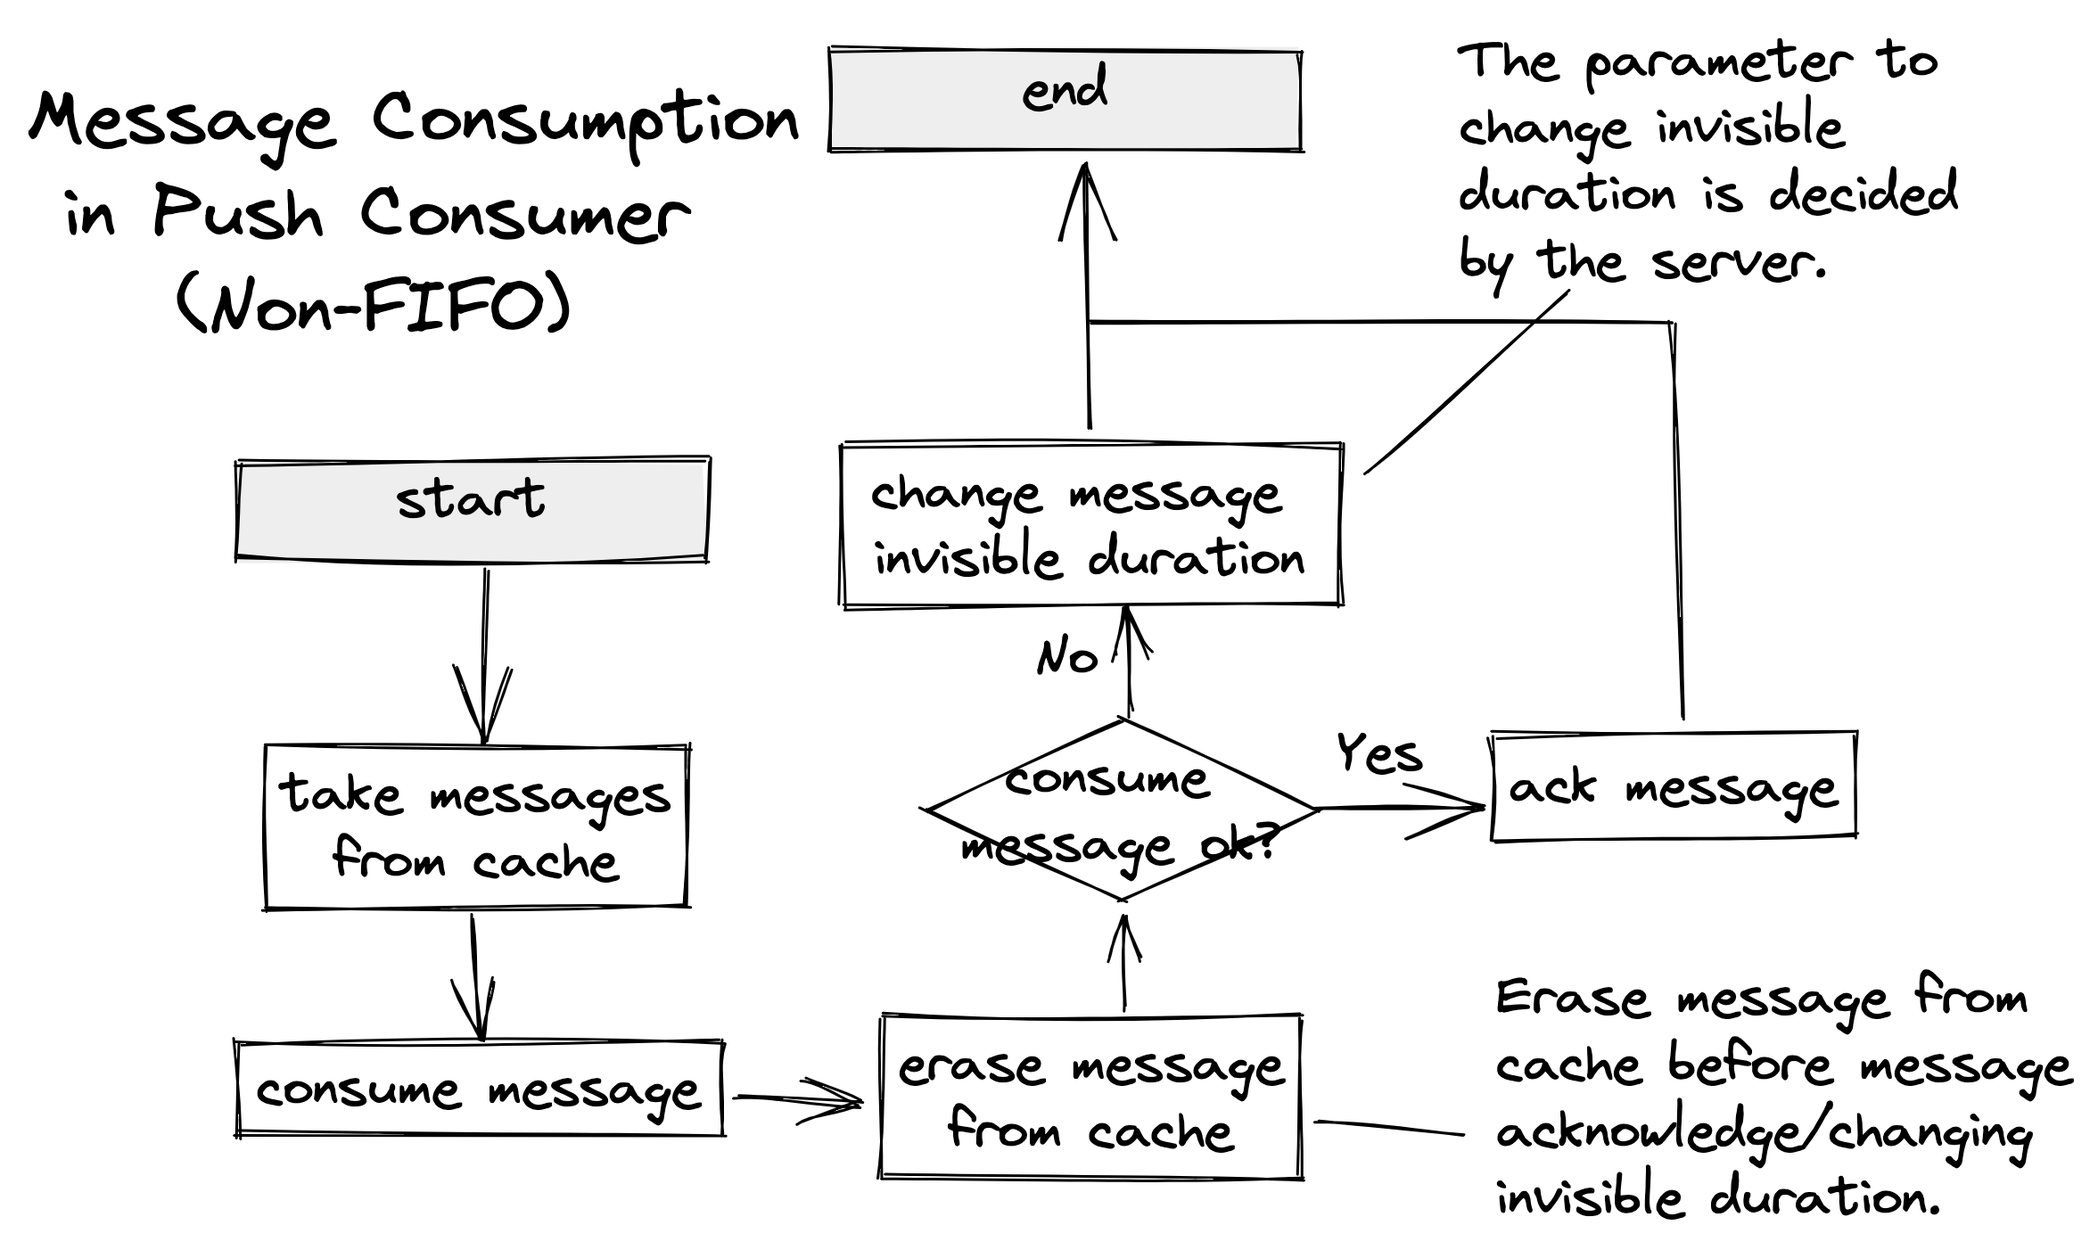
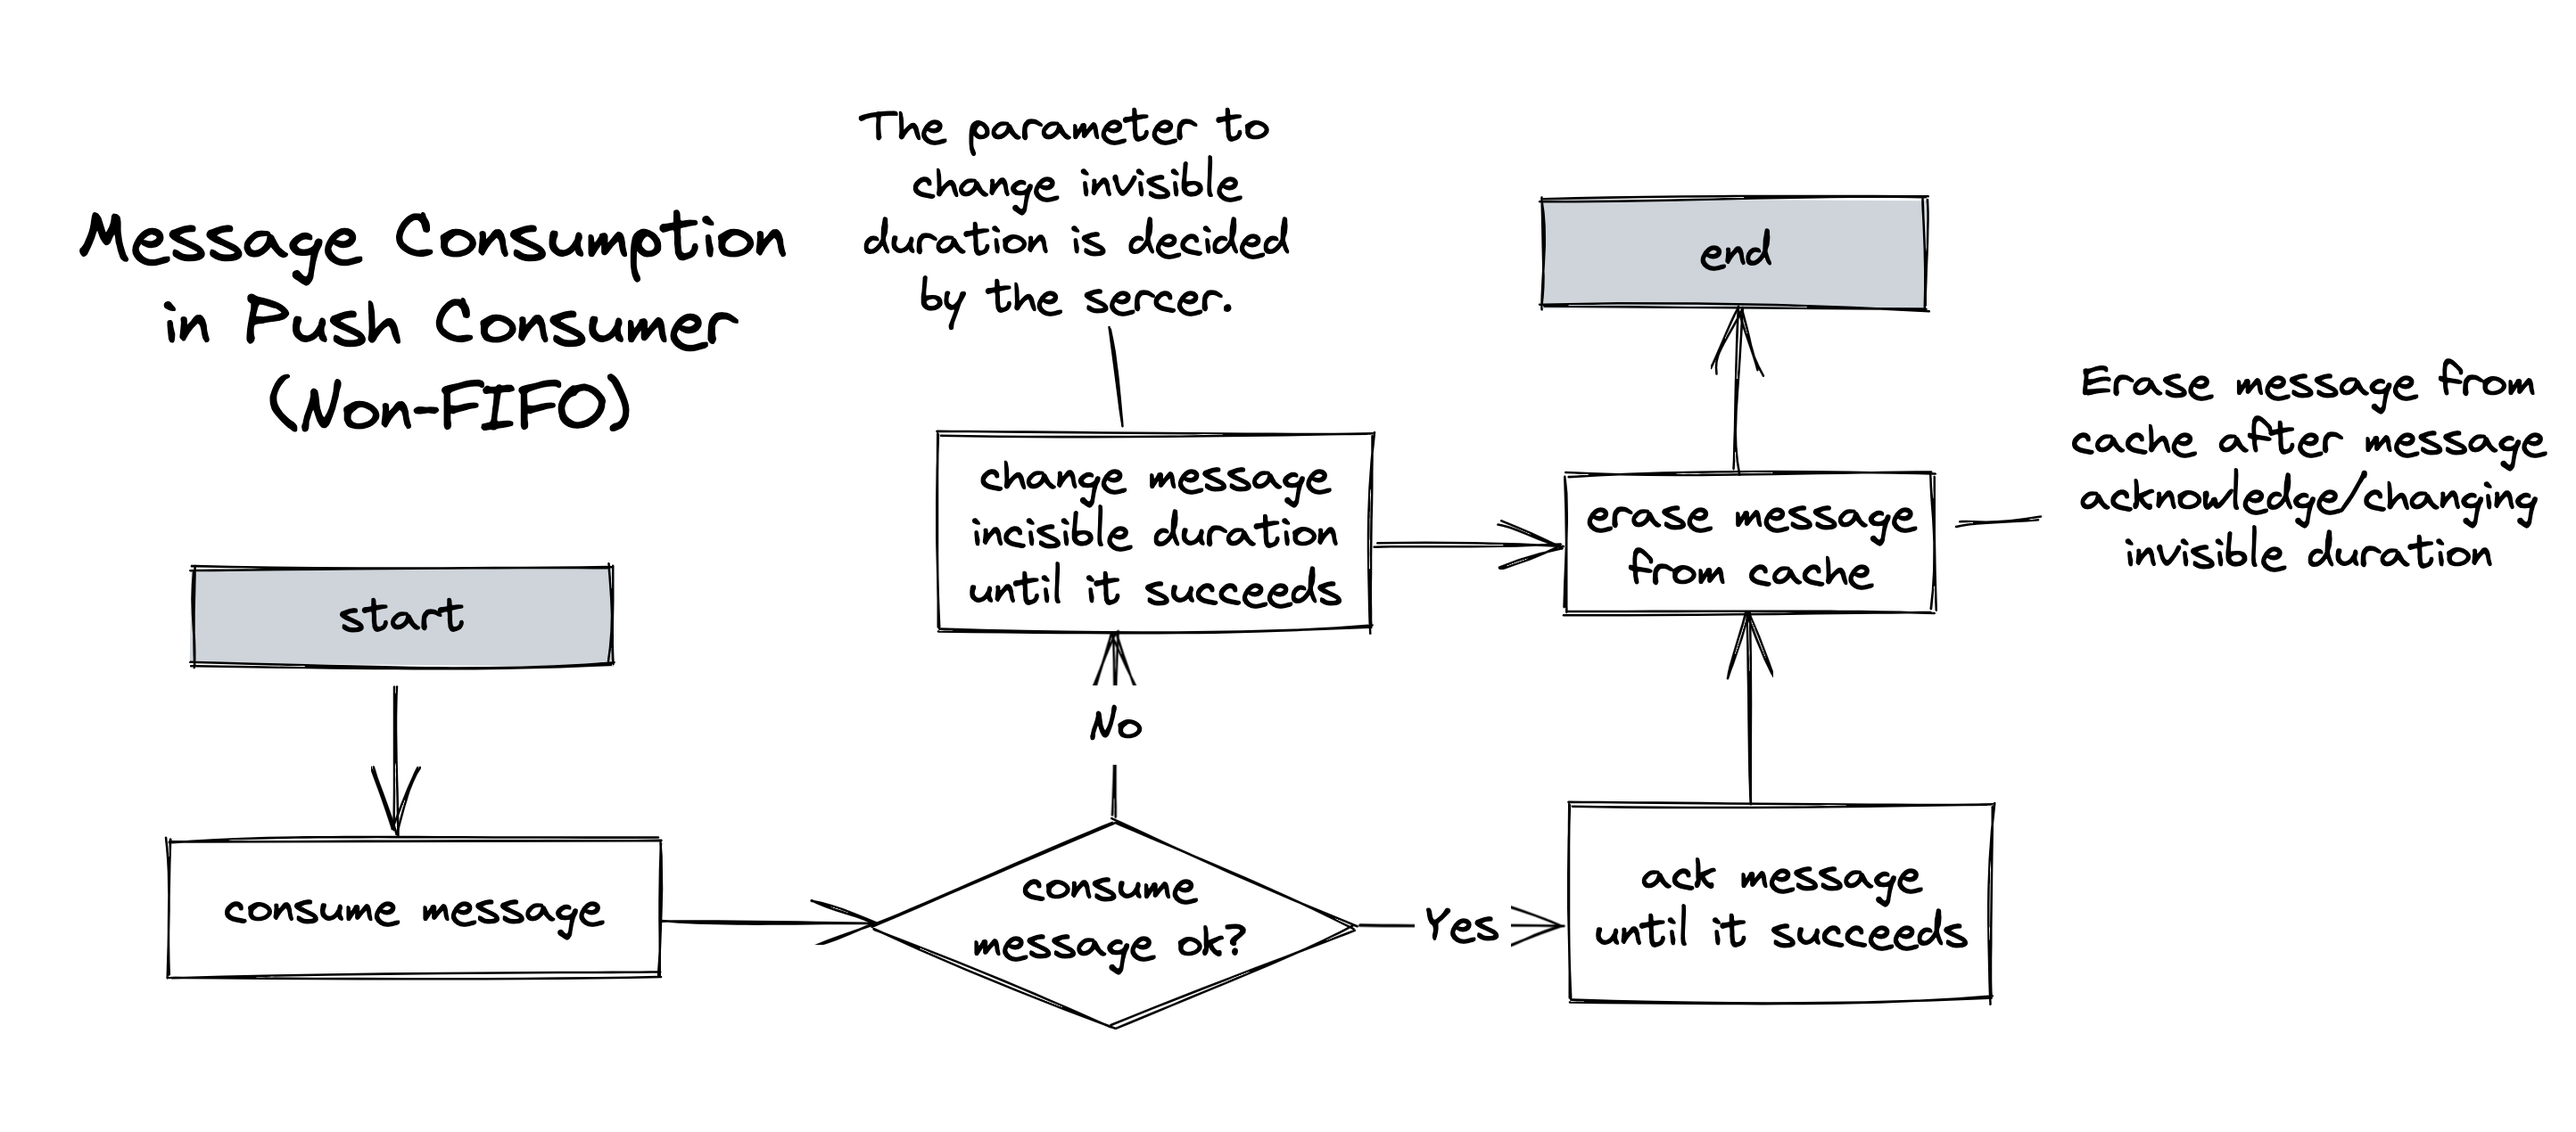
[ISSUE #132] docs: correct images and add explanation for Ack/ChangeInvisibleTime retry policy  (#585)
* docs: correct images and add missing logic for Ack/ChangeInvisibleTime retry policy

* docs: correct images

* docs: fix markdown style

* docs: fix doc style

---------

diff --git a/docs/workflow.md b/docs/workflow.md
@@ -83,6 +83,10 @@ The receiving procedure is as follows:
 <img src="./artwork/message_consumption_in_push_consumer_non_FIFO.png" width="50%">
 </div>
 
+In push consumer, we provide retry policies for acknowledging messages and changing the invisible time to ensure the reliability of message processing.
+
+When calling `ackMessage` or `changeInvisibleDuration` methods, if receiving a non-OK response code, we will log the error and retry later. We will retry the method with an increasing attempt value until it succeeds. If receiving an `INVALID_RECEIPT_HANDLE` response code, we will not retry and directly return the exception to the caller.
+
 ### Message Consumption in Push Consumer(FIFO)
 
 <div align="center">
